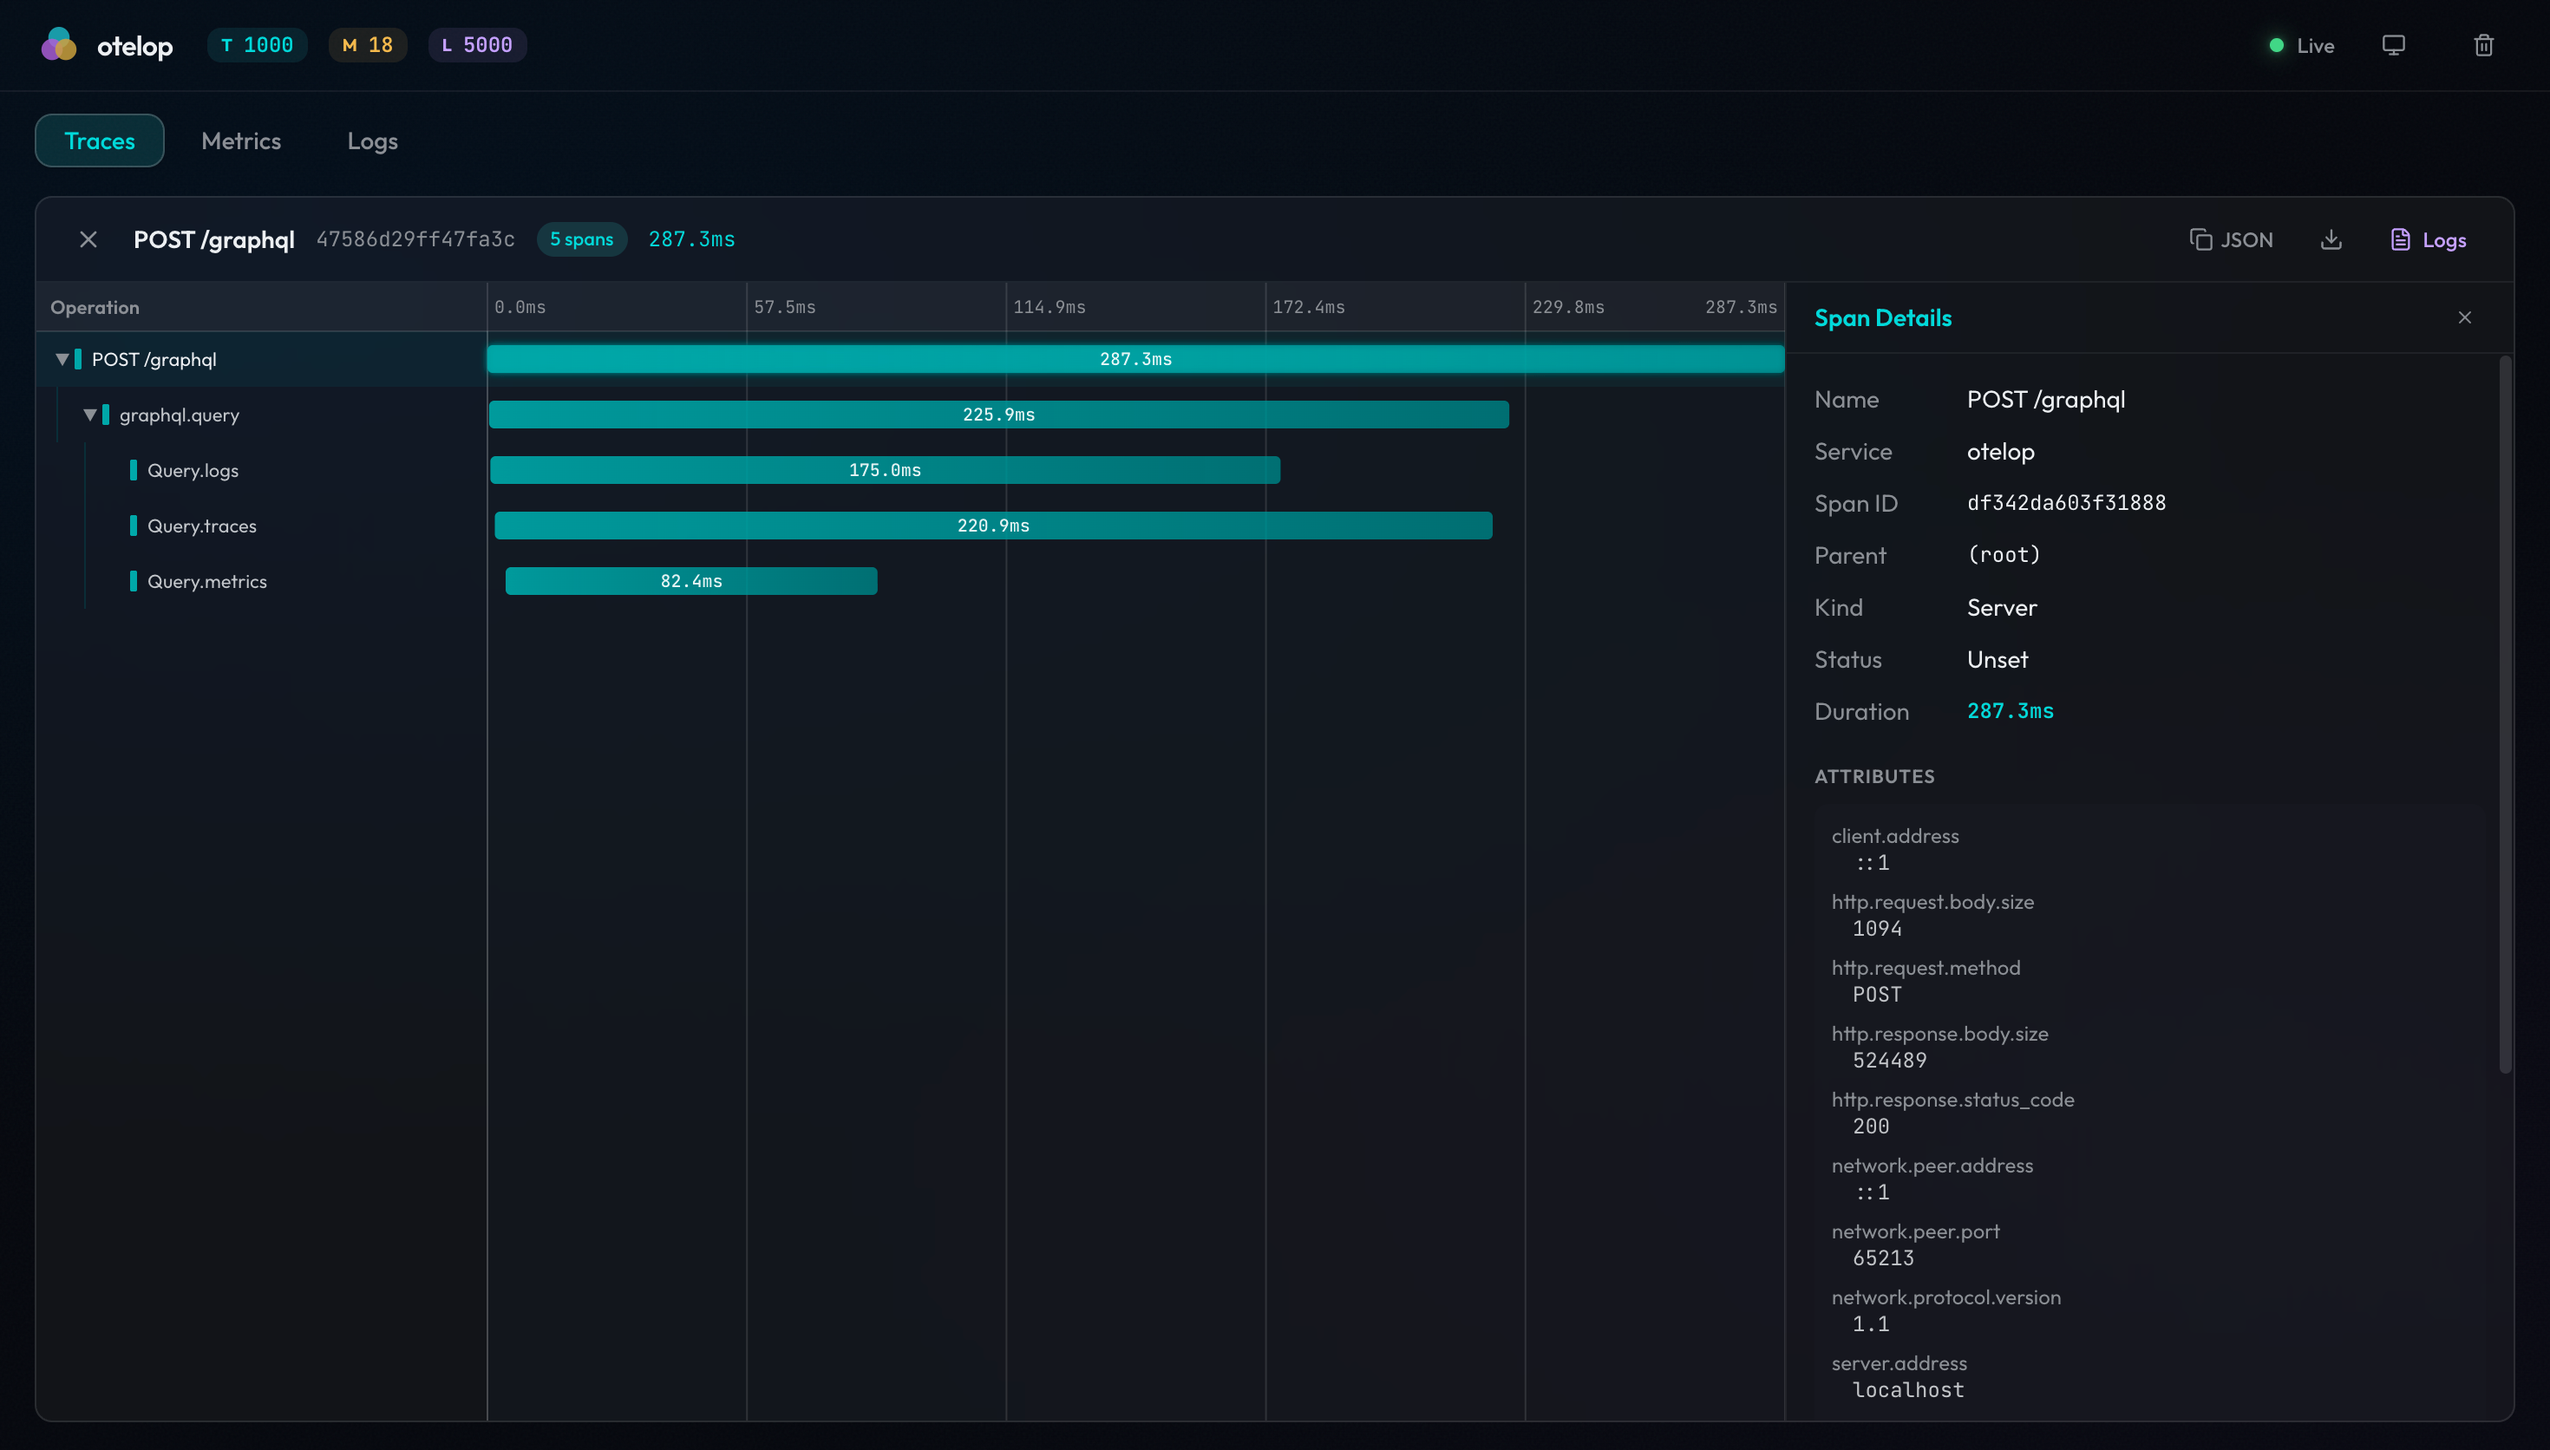
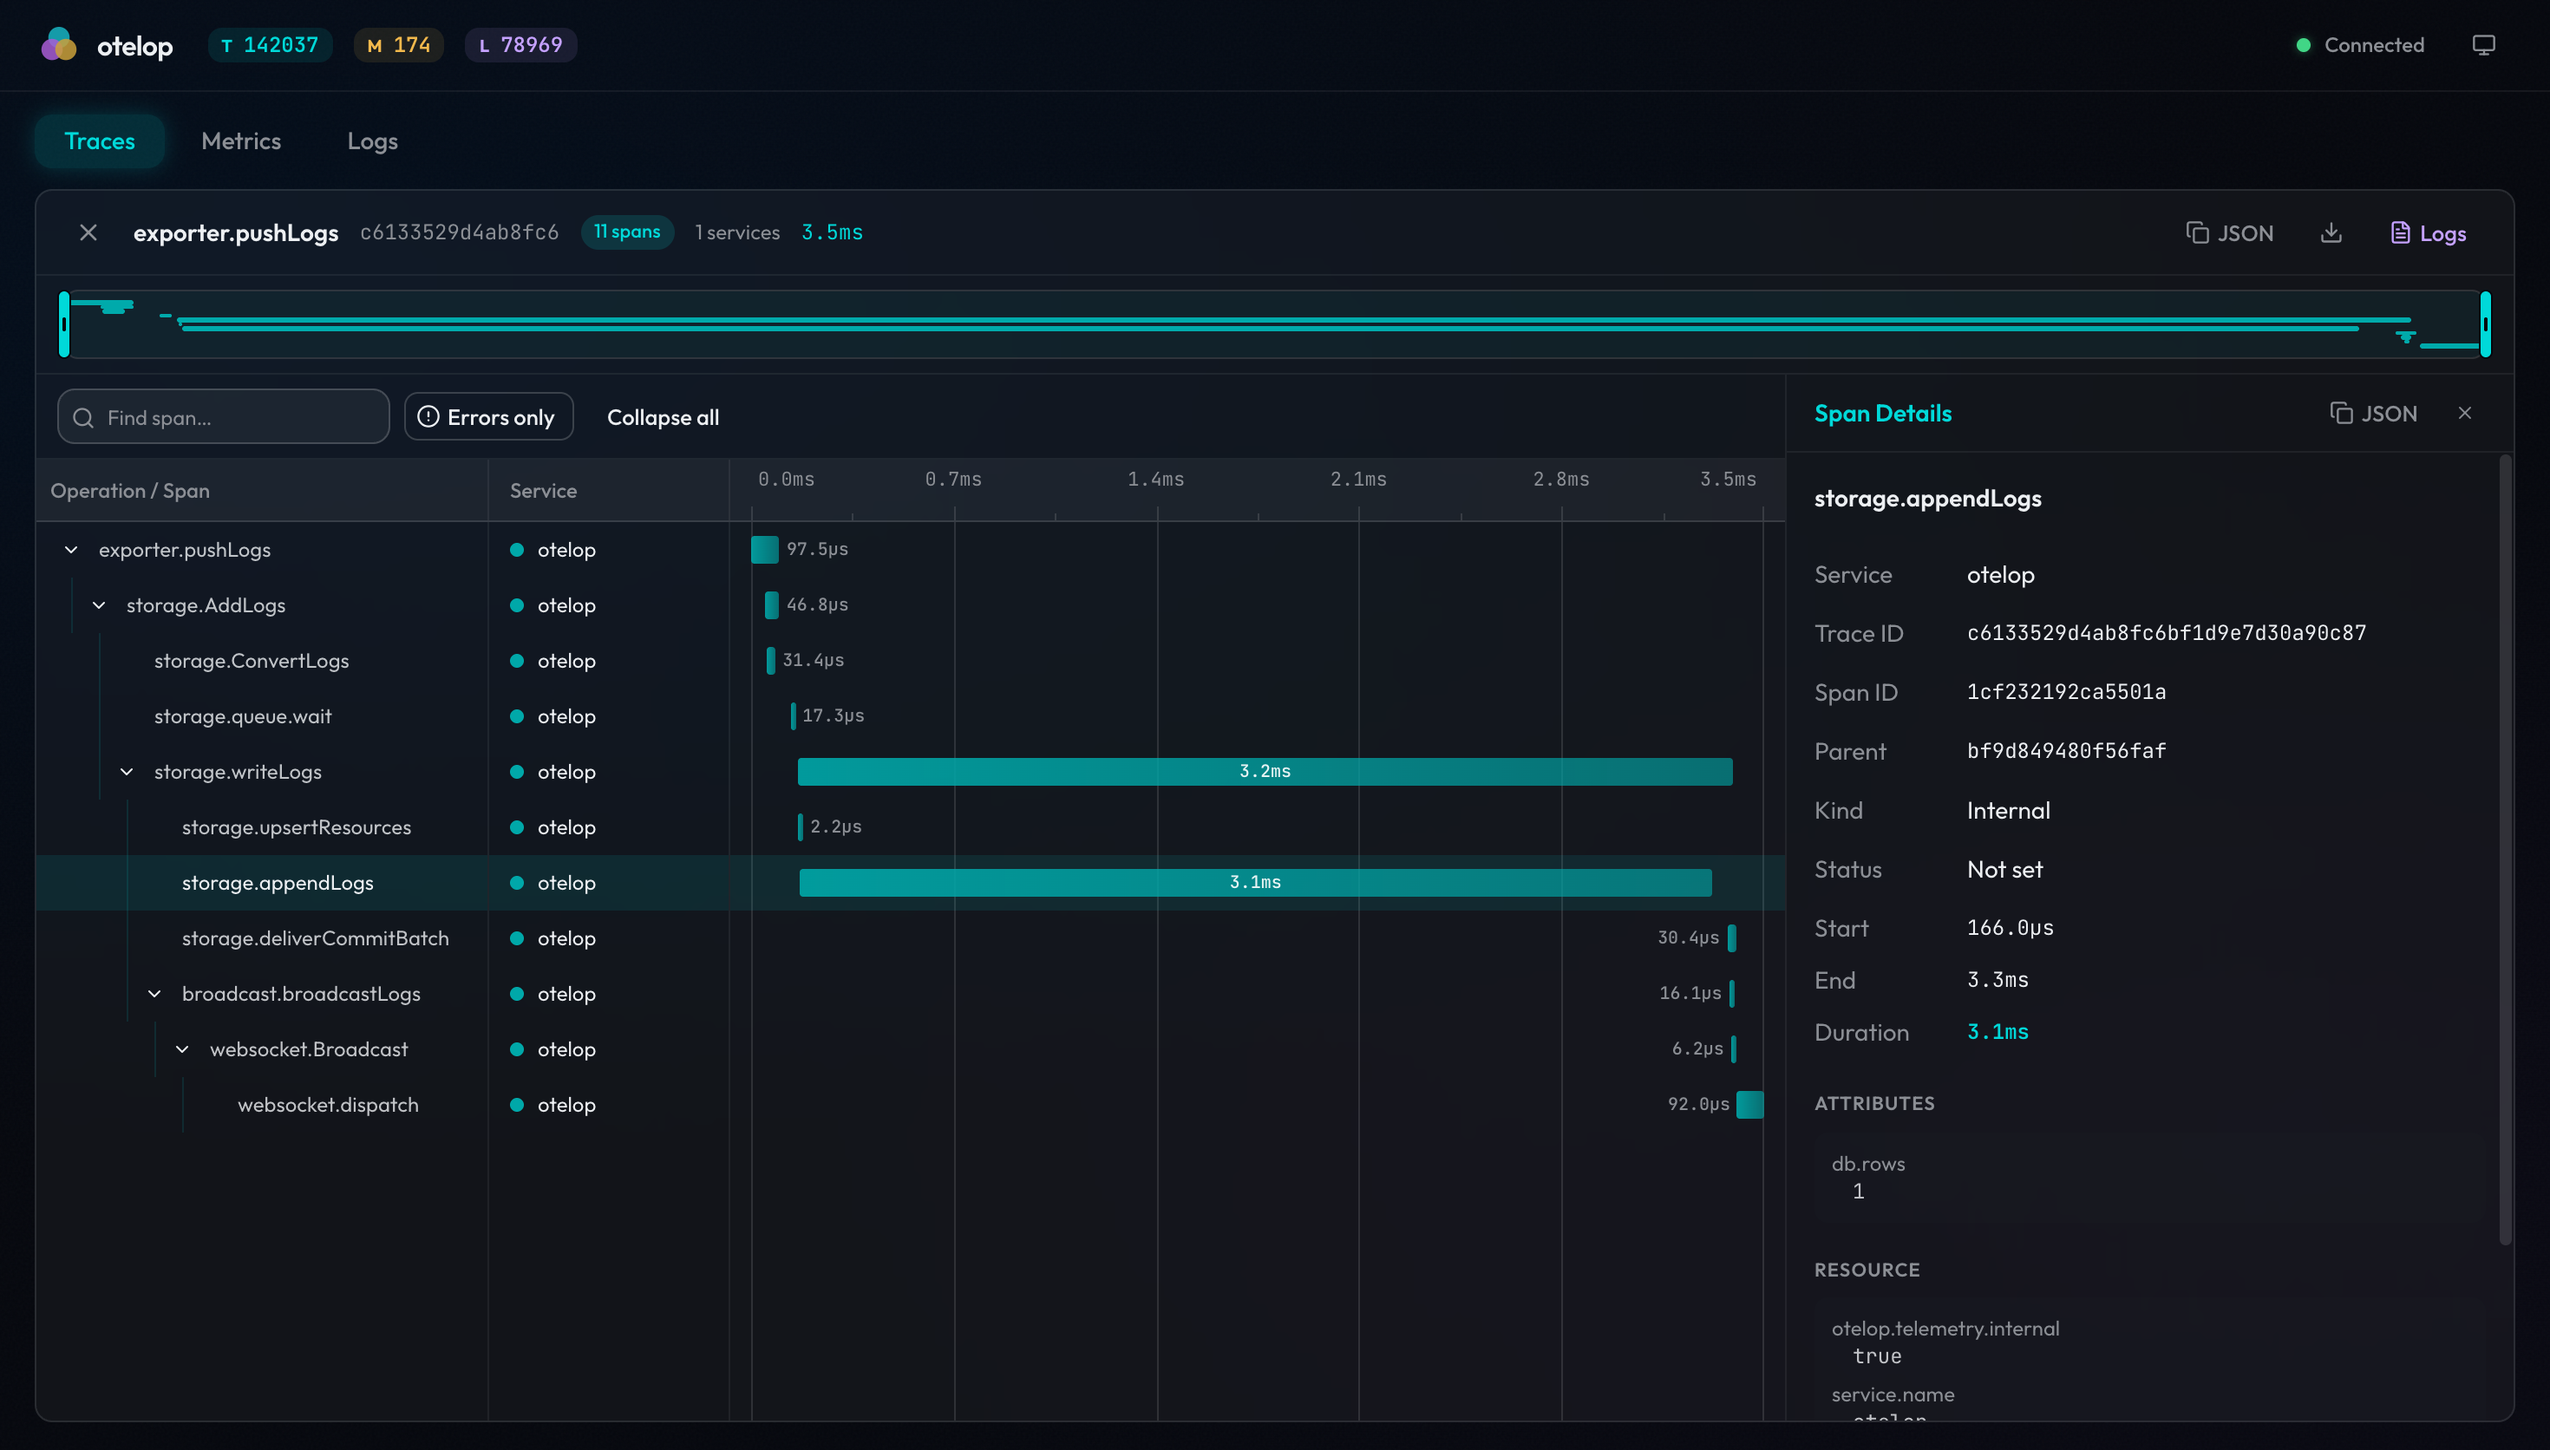
docs(readme): refresh README and screenshots for 2.0.0 (#338)
Release-As: 2.0.0

diff --git a/README.md b/README.md
@@ -7,6 +7,7 @@
 A local OpenTelemetry viewer for traces, metrics, and logs.
 Single binary, persistent local storage, browser UI.
 
+[![Release](https://img.shields.io/github/v/release/mashiro/otelop?color=14b8a6)](https://github.com/mashiro/otelop/releases)
 [![Go](https://img.shields.io/badge/go-1.27-00ADD8?logo=go&logoColor=white)](go.mod)
 [![React](https://img.shields.io/badge/react-19-61DAFB?logo=react&logoColor=white)](frontend/package.json)
 [![License](https://img.shields.io/badge/license-MIT-black)](LICENSE)
@@ -25,59 +26,42 @@ It's meant for the loop where you're writing instrumentation and just want to se
 
 ![otelop trace view](docs/images/trace.png)
 
+| Metrics | Logs |
+|---|---|
+| ![otelop metric view](docs/images/metrics.png) | ![otelop log view](docs/images/logs.png) |
+
 </div>
 
 ## Features
 
+**Receive**
+
 - Single binary with the frontend embedded
 - OTLP gRPC and HTTP receivers (built-in OpenTelemetry Collector)
 - Optional OTLP forwarding to one upstream endpoint
-- Traces, metrics, and logs in one UI
-- Server-side search, time-window navigation, and infinite scrolling for traces and logs
+
+**Store**
+
+- Embedded DuckDB storage with time-based retention and a size ceiling
+- History persists across restarts with no external setup
+
+**Explore**
+
+- Traces, metrics, and logs in one UI, updated live over WebSocket
+- Trace waterfall with a minimap, range selection, span search, errors-only view, and trace-to-logs navigation
+- Metric charts with attribute breakdowns and legend-driven series selection
+- Structured filters for traces and logs with suggestions drawn from stored data
+- Time windows from 1 minute to 3 days (or everything), with previous/next navigation and **Load more** paging into older results
 - Log context navigation for inspecting records around a selected event
-- Embedded DuckDB storage with time-based retention
-- Live updates over WebSocket
+- Shareable URLs: the selected trace, span, metric, filters, and time window all live in the address bar
+- Keyboard shortcuts: `/` focuses search, `Esc` closes the details panel
+
+**Integrate**
+
 - GraphQL API at `/graphql`
-- Persistent history across restarts with no external setup
+- Documentation bundled in the binary (`otelop docs`), written for both humans and AI coding agents
+- `/healthz` and `/readyz` probes for Kubernetes
 - Optional self-observability for otelop's own traces, metrics, and logs
-
-## Log search
-
-Use **Add filter** to configure each condition with **Key / Operator / Value**.
-Standard keys include `trace_id`, `span_id`, `service_name`, `severity_text`,
-`severity_number`, and `body`. Attribute keys can be selected from DB-backed suggestions within the selected time
-window or entered as `attributes.key` / `resource.key`.
-Operators include equality, exclusion, contains, wildcard matching, existence,
-and numeric comparisons. Conditions are combined with AND. Click a condition to
-edit it, pause it temporarily, or remove it. Text search and conditions, including paused conditions, are recorded in the
-URL along with the time window. Opening a URL restores those conditions; a bare
-Logs URL starts with no filters. Trace-to-Logs navigation adds a trace_id filter.
-Log Details offers filter buttons for standard fields, attributes, and resource values.
-Search applies within the selected time window, including subsequent pages.
-
-You can also enter a query in the Logs search box and press Enter:
-
-```text
-attributes.http.method:GET
-attributes.http.status_code:500 AND resource.service.name:api
-attributes.user.name:"Alice Smith"
-attributes.http.route:/api/*
-attributes.error.type:*
-failed attributes.http.method:GET
-```
-
-Use `attributes.` for log attributes and `resource.` for resource attributes.
-Keys are case-sensitive; dots are part of the key. String, number, and boolean
-values match fully, ignoring case. Unquoted `*` is a wildcard; `key:*` checks
-for a non-null attribute. Double-quoted values use JSON string escaping and
-match literally, including `*`. Combine filters with spaces or `AND`.
-Free text searches body, service, severity, trace ID, and the JSON of attributes
-and resource, including nested keys and values. The same filters apply to retained and live logs.
-Prefix a filter with `-` to exclude matches, including missing keys
-(e.g. `-attributes.http.method:GET`). Numeric comparisons use
-`attributes.http.status_code:>=500` and apply only to numeric attribute values.
-Wildcard strings containing spaces use `attributes.message:~"*request failed*"`.
-OR, the NOT keyword, and grouping are not supported. Incomplete filters are treated as free text.
 
 ## Install
 
@@ -138,6 +122,52 @@ Any AI coding agent that supports OpenTelemetry can export to `otelop`, so you c
 
 - [Claude Code](https://docs.claude.com/en/docs/claude-code/monitoring-usage)
 - [Codex](https://developers.openai.com/codex/config-advanced)
+
+## Search and filters
+
+Traces and Logs share the same filter model. Search and filters apply within the selected time window, including subsequent pages, and to both retained and live data.
+
+### Filter builder
+
+Use **Add filter** to build a condition from **Key / Operator / Value**:
+
+- Standard log keys: `trace_id`, `span_id`, `service_name`, `severity_text`, `severity_number`, `body`
+- Standard trace keys: `trace_id`, `span_id`, `parent_span_id`, `service_name`, `name`, `kind`, `status_code`, `status_message`, `duration_ms`
+- Attribute keys are suggested from stored data in the selected time window, or can be typed as `attributes.key` / `resource.key`
+- Operators cover equality, exclusion, contains, wildcard matching, existence, and numeric comparisons
+- Conditions are combined with AND. Trace conditions must all match the same span
+- Click a condition to edit it, pause it temporarily, or remove it
+- The details panel offers filter buttons for standard fields, attributes, and resource values
+
+Text search, conditions (including paused ones), and the time window are recorded in the URL, so opening a URL restores them. **Logs** on a trace opens the Logs view with a `trace_id` filter applied.
+
+### Query syntax
+
+The same conditions can be typed into the search box and applied with Enter:
+
+```text
+attributes.http.method:GET
+attributes.http.status_code:500 AND resource.service.name:api
+attributes.user.name:"Alice Smith"
+attributes.http.route:/api/*
+attributes.error.type:*
+failed attributes.http.method:GET
+```
+
+| Syntax | Meaning |
+|---|---|
+| `attributes.key:value` | Signal attribute equals `value` (full match, case-insensitive) |
+| `resource.key:value` | Resource attribute equals `value` |
+| `key:/api/*` | Unquoted `*` is a wildcard |
+| `key:*` | Attribute exists (non-null) |
+| `key:"Alice Smith"` | Quoted values use JSON string escaping and match literally, including `*` |
+| `key:~"*request failed*"` | Wildcard match on a value containing spaces |
+| `key:>=500` | Numeric comparison; applies only to numeric values |
+| `-key:value` | Exclude matches, including records where the key is missing |
+| `a:1 b:2` or `a:1 AND b:2` | Combine conditions with AND |
+| `failed` | Free text |
+
+Keys are case-sensitive and dots are part of the key. String, number, and boolean values are all matched. Free text in Logs searches body, service, severity, trace ID, and the JSON of attributes and resource, including nested keys and values. `OR`, the `NOT` keyword, and grouping are not supported; incomplete filters are treated as free text.
 
 ## Endpoints
 
@@ -203,6 +233,17 @@ PID, log, and metadata files live in `$XDG_STATE_HOME/otelop/` (defaults to
 values and resolved paths. Query GraphQL `status` for the running instance's
 effective storage settings, file size, and logical signal counts.
 
+## Bundled documentation
+
+The binary ships its own documentation, matched to the installed version:
+
+```bash
+otelop docs list                        # getting-started, configuration, investigate-telemetry, troubleshooting
+otelop docs show investigate-telemetry  # print one document as Markdown
+```
+
+`investigate-telemetry` describes how to query stored traces, metrics, and logs through the GraphQL API. Point an AI coding agent at `otelop docs list` and it can inspect the telemetry of the app it is debugging on its own.
+
 ## Configuration
 
 Every configuration flag can be set three ways; `--foreground` is CLI-only.
@@ -238,7 +279,26 @@ type = "bearer"
 token = "replace-me"
 ```
 
-The matching environment variables are `OTELOP_HTTP`, `OTELOP_OTLP_GRPC`, `OTELOP_OTLP_HTTP`, `OTELOP_PROXY_URL`, `OTELOP_PROXY_PROTOCOL`, `OTELOP_PROXY_AUTH_TYPE`, `OTELOP_PROXY_AUTH_TOKEN`, `OTELOP_PROXY_AUTH_USERNAME`, `OTELOP_PROXY_AUTH_PASSWORD`, `OTELOP_PROXY_HEADERS`, `OTELOP_STORAGE_PATH`, `OTELOP_RETENTION`, `OTELOP_MAX_SIZE`, `OTELOP_RENDER_WINDOW_MAX`, `OTELOP_LOG_LEVEL`, and `OTELOP_DEBUG`.
+Each key maps to an environment variable:
+
+| Config key | Environment variable |
+|---|---|
+| `http` | `OTELOP_HTTP` |
+| `otlp_grpc` | `OTELOP_OTLP_GRPC` |
+| `otlp_http` | `OTELOP_OTLP_HTTP` |
+| `log_level` | `OTELOP_LOG_LEVEL` |
+| `debug` | `OTELOP_DEBUG` |
+| `storage.path` | `OTELOP_STORAGE_PATH` |
+| `storage.retention` | `OTELOP_RETENTION` |
+| `storage.max_size` | `OTELOP_MAX_SIZE` |
+| `ui.render_window_max` | `OTELOP_RENDER_WINDOW_MAX` |
+| `proxy.url` | `OTELOP_PROXY_URL` |
+| `proxy.protocol` | `OTELOP_PROXY_PROTOCOL` |
+| `proxy.auth.type` | `OTELOP_PROXY_AUTH_TYPE` |
+| `proxy.auth.token` | `OTELOP_PROXY_AUTH_TOKEN` |
+| `proxy.auth.username` | `OTELOP_PROXY_AUTH_USERNAME` |
+| `proxy.auth.password` | `OTELOP_PROXY_AUTH_PASSWORD` |
+| `proxy.auth.headers` | `OTELOP_PROXY_HEADERS` |
 
 When proxying is enabled, `otelop` still stores incoming telemetry locally for the UI and also forwards the same traces, metrics, and logs to the configured upstream OTLP endpoint.
 
